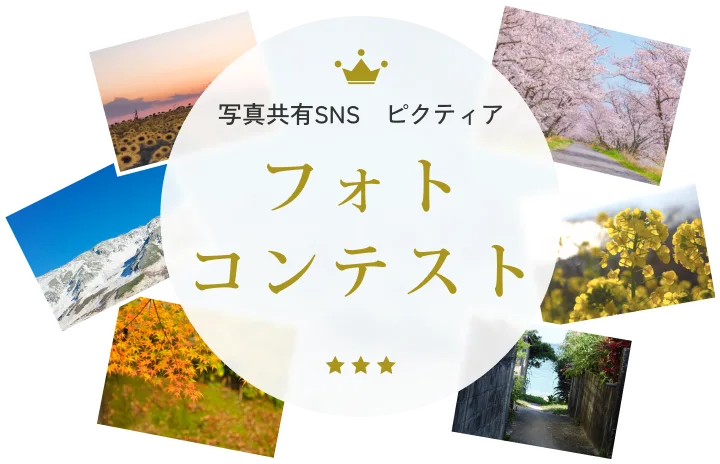
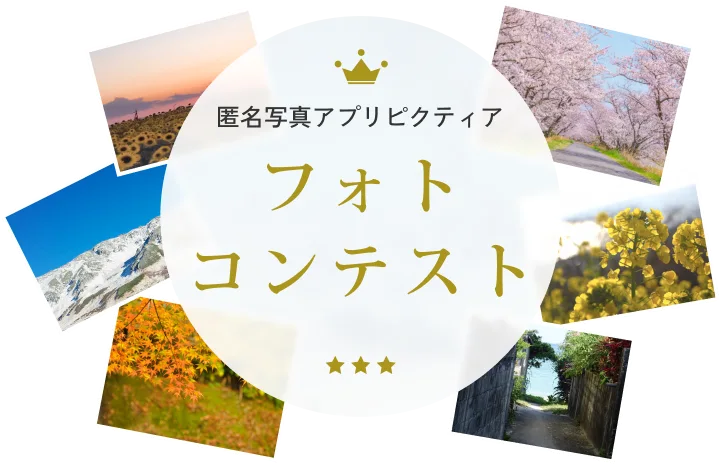
テキスト、画像変更

Changed region(s): [[0.3056, 0.2112, 0.7028, 0.2716]]

diff --git a/index.html b/index.html
@@ -3,7 +3,7 @@
 
 <head>
     <meta charset="UTF-8">
-    <title>写真共有SNSピクティア | フォトコンテスト</title>
+    <title>匿名写真アプリ | フォトコンテスト</title>
     <meta name="description" content="ピクティアは、非言語であることにこだわった新感覚の写真SNSです。
     一般的なSNSとは違い、コメントやフォロー機能がないので、いいね! やフォロワー数の増減など気にする必要がなく、純粋に写真を楽しむことが出来ます。ピクティアの世界をより多くの人に体験してほしいと思い、フォトコンテストを企画しております。">
     <!--ビューポート設定-->
